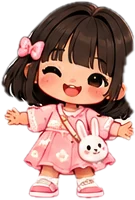
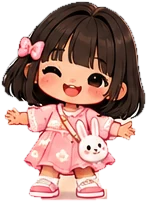
Fix Nene artwork: keep full hair, hands and shoes

diff --git a/src/data/sprites.ts b/src/data/sprites.ts
@@ -15,6 +15,6 @@ const S = (src: string, pw: number, ph: number, head = 0.42): Sprite => ({ src, 
 /** head = fraction of image height covered by the head, used for round face icons. */
 export const SPRITES: Record<string, Sprite> = {
   yuna: S(yuna, 179, 288, 0.42), natalie: S(natalie, 141, 313, 0.36), brother: S(brother, 126, 238, 0.45),
-  nene: S(nene, 135, 200, 0.5), mom: S(mom, 140, 319, 0.35), dad: S(dad, 137, 322, 0.36),
+  nene: S(nene, 147, 202, 0.5), mom: S(mom, 140, 319, 0.35), dad: S(dad, 137, 322, 0.36),
   snowy: S(snowy, 113, 136), coco: S(coco, 104, 140),
 };
